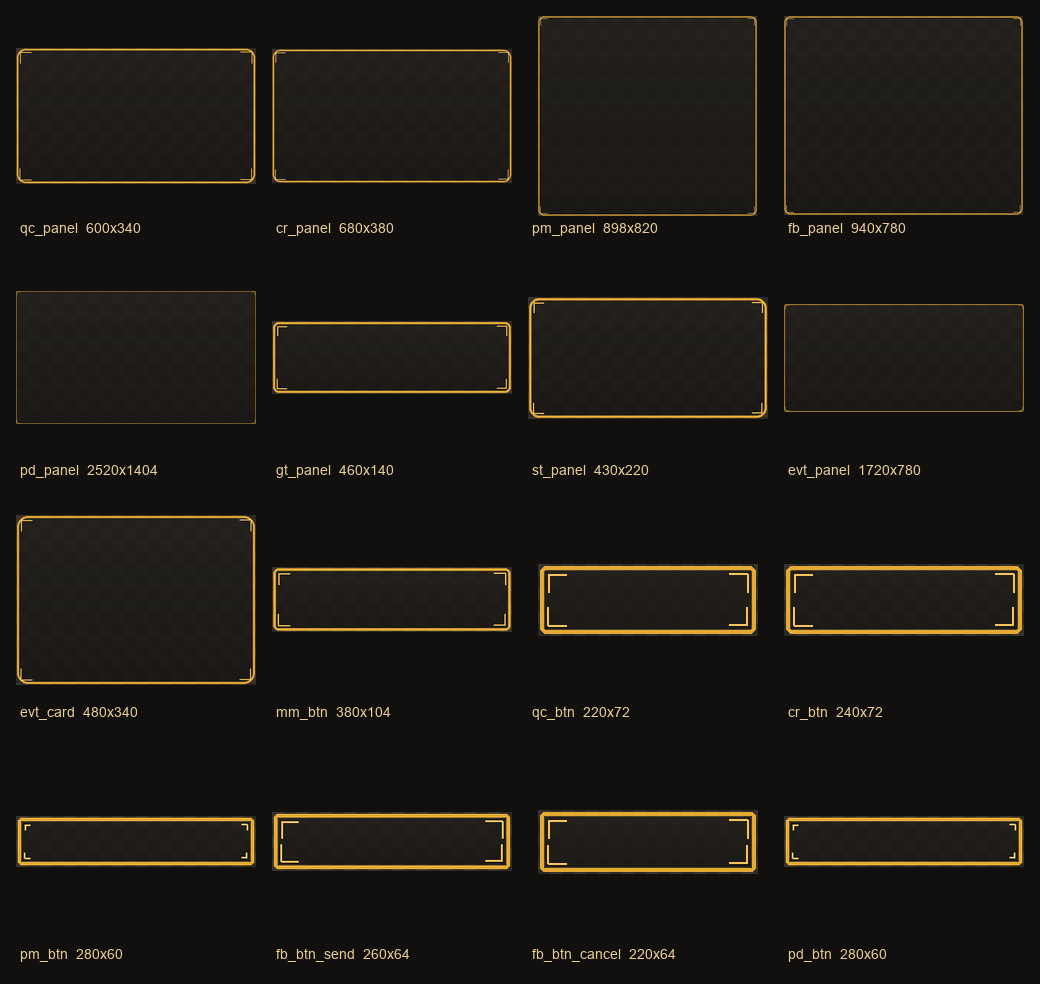
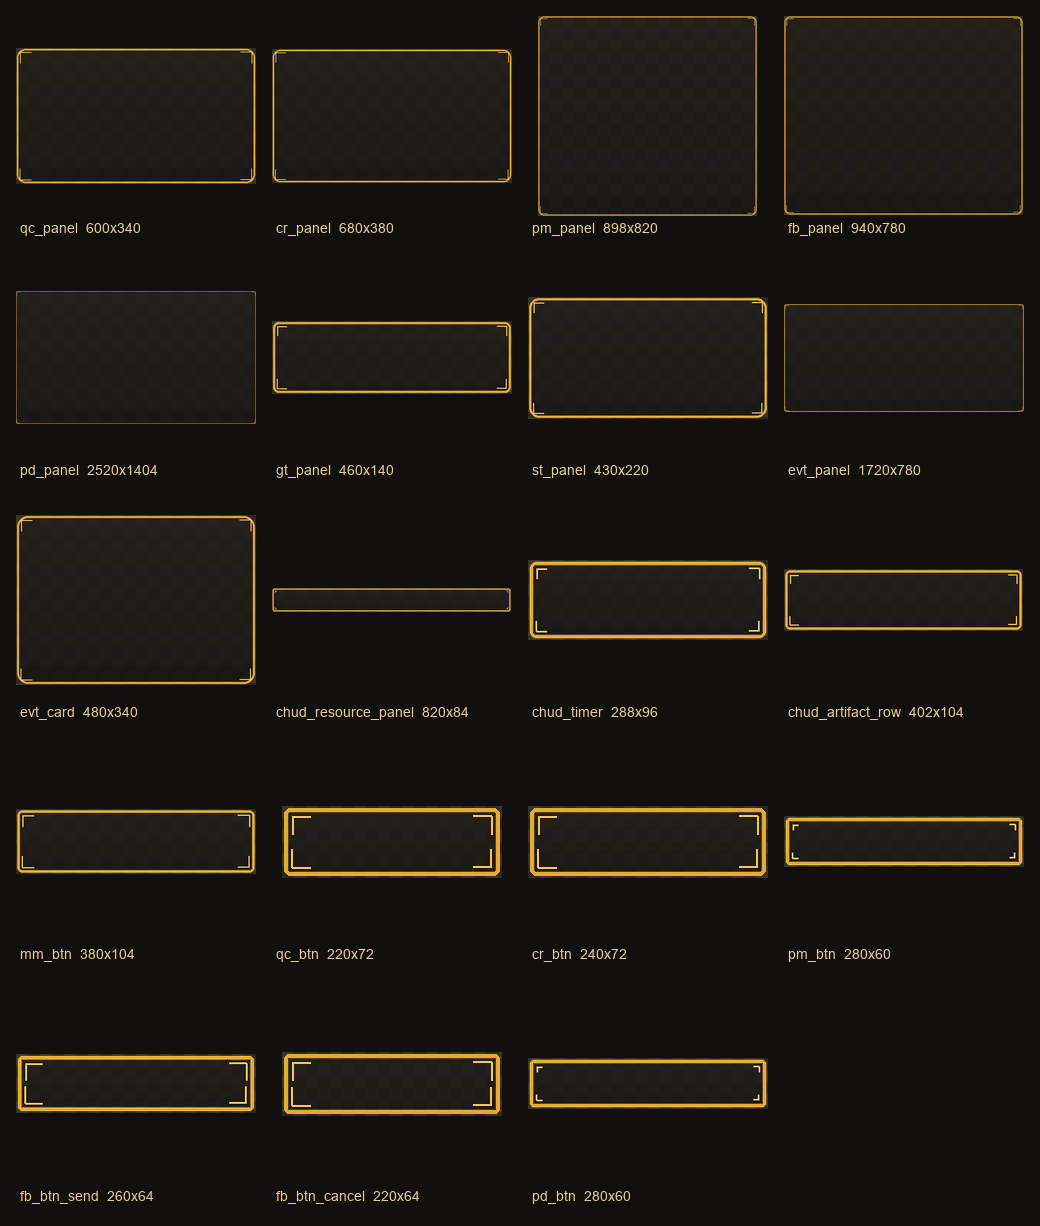
feat(SCRUM-564): UI-редизайн Бой/HUD @2K (раскладка+генерация)
Per-слот @2K-рамки боевого HUD (resource-панель/таймер/ряд артефактов) вместо
общих minimal_metal-фреймов, которые ужимались под слот и мылили орнамент.
Нарисованы 1:1 под слот (CHUD_*_2K) детерминированным build_ui_2k_frame_kit.py
с нативными 9-slice бордюрами — резкий орнамент на 1080p/2K/4K, тянется только
плоский центр. Узкие верт. бордюры тонких HUD-стрипов, чтобы рамка не вырастала
за слот и не наезжала на CharacterStatsHud/ArtifactHudRow.

- ui_theme_paths.gd: HUD-слоты в OVERHAUL_2K_* + margin-профили hud_resource/
  hud_timer/hud_artifact (единый источник для генератора и рантайма).
- ui_screens.gd: _hud_panel_style/_timer_panel_style -> _overhaul_2k_frame_style.
- build_ui_2k_frame_kit.py: 3 HUD-слота в SLOTS (anti-drift сверка с CHUD_*_2K).
- runtime_smoke_test.gd: HUD текстур-ассерты на @2K-пути (SCRUM-448->SCRUM-564).
- ассеты + .import сайдкары + mockup-спека + превью.

Green-gate PASS: runtime_smoke_test, ui_no_overlap_matrix_test (combat_hud без
overflow/overlap @1080p/2K/4K), frame-kit --verify зелёный. Эпик SCRUM-481.

diff --git a/tools/build_ui_2k_frame_kit.py b/tools/build_ui_2k_frame_kit.py
@@ -66,6 +66,11 @@ SLOTS = [
     # переиспользуют base card-арт под hover) — отдельный идентичный PNG не нужен.
     {"slug": "evt_panel", "file": "ui_screens", "const": "EVT_PANEL_2K", "kind": "frame", "margin_key": "panel", "w": 1720, "h": 780},
     {"slug": "evt_card", "file": "ui_screens", "const": "EVT_CARD_2K", "kind": "frame", "margin_key": "card", "w": 480, "h": 340},
+    # боевой HUD-блок (SCRUM-564, эпик SCRUM-481): per-слот @2K-рамки из CHUD_*_2K.
+    # Тонкие горизонтальные стрипы → margin-профили hud_resource/hud_timer/hud_artifact.
+    {"slug": "chud_resource_panel", "file": "ui_screens", "const": "CHUD_RESOURCE_PANEL_2K", "kind": "frame", "margin_key": "hud_resource", "w": 820, "h": 84},
+    {"slug": "chud_timer", "file": "ui_screens", "const": "CHUD_TIMER_2K", "kind": "frame", "margin_key": "hud_timer", "w": 288, "h": 96},
+    {"slug": "chud_artifact_row", "file": "ui_screens", "const": "CHUD_ARTIFACT_ROW_2K", "kind": "frame", "margin_key": "hud_artifact", "w": 402, "h": 104},
     # кнопки (button-маргины)
     {"slug": "mm_btn", "file": "ui_screens", "const": "MM_BTN_START_2K", "kind": "button", "margin_key": "main_menu", "w": 380, "h": 104},
     {"slug": "qc_btn", "file": "ui_screens", "const": "QC_BTN_EXIT_2K", "kind": "button", "margin_key": "standard", "w": 220, "h": 72},

diff --git a/docs/design/mockups/combat-hud/spec.md b/docs/design/mockups/combat-hud/spec.md
@@ -1,0 +1,65 @@
+# Mockup-спека — Бой / HUD (SCRUM-564, эпик SCRUM-481 UI Overhaul 2K)
+
+База **2560×1440**, `stretch=canvas_items`, `aspect=keep`. Редизайн боевого HUD:
+per-слот @2K-рамки вместо общих `minimal_metal`-фреймов, которые ужимались под слот
+и мылили орнамент. Стиль — единый D&D + Dark Fantasy Dragon (тот же bright-минимал
+amber-кит, что в остальных @2K-рамках блока Меню/Навигация SCRUM-486).
+
+## ЭТАП 1 — раскладка / метрики @2560×1440
+
+Координаты уже зафиксированы код-константами `CHUD_*_2K` в `scripts/ui_screens.gd`
+(блок SCRUM-487) и сверены рантайм-верификатором. Этот редизайн их НЕ меняет —
+только подменяет рамки на нарисованные 1:1 под слот.
+
+| Слот | const | x | y | w | h |
+|---|---|---:|---:|---:|---:|
+| Ресурс-панель (HP/XP/Gold/ULT) | `CHUD_RESOURCE_PANEL_2K` | 18 | 18 | 820 | 84 |
+| Панель таймера (нет на боссе) | `CHUD_TIMER_2K` | 1136 | 14 | 288 | 96 |
+| Бейдж возвышения (asc>0) | `CHUD_ASCENSION_BADGE_2K` | 1432 | 18 | 64 | 64 |
+| Ряд артефактов | `CHUD_ARTIFACT_ROW_2K` | 2140 | 16 | 402 | 104 |
+| Кнопка повышения (bottom-right) | `CHUD_LEVELUP_BUTTON_2K` | 2436 | 1316 | 96 | 117 |
+| Дамаг-флэш (overlay) | `CHUD_DAMAGE_FLASH_2K` | 0 | 0 | 2560 | 1440 |
+
+**Инварианты (проверены `ui_no_overlap_matrix_test`):** ничего не вылазит за экран;
+слоты не наслаиваются на 1080p/2K/4K; текст в рамке; HUD не перекрывает игровое поле
+(только верх-бар + нижний правый угол). Подписи компактные (HP/XP/ULT, таймер — моно).
+
+## ЭТАП 2 — генерация рамок (рисующий скилл)
+
+Рамки сгенерированы детерминированным пайплайном `tools/build_ui_2k_frame_kit.py`
+(SCRUM-485) — рисует 9-slice-safe frame-ассет РОВНО в пиксельный размер слота @2K
+с нативными бордюрами; орнамент держится в margin-band, центр — ровный вертикальный
+градиент (тянется только он). Рендер-верификатор (`--verify`) зелёный: размер ==
+ожидаемый, 9-slice валиден, углы попиксельно стабильны на 1080p/2K/4K, центр чистый,
+нет stray-островов.
+
+Тонкие HUD-стрипы получили **узкие вертикальные бордюры**, чтобы рамка не вырастала
+за свой слот и не наезжала на соседние плашки (`CharacterStatsHud` под ресурс-панелью,
+`ArtifactHudRow` справа от таймера):
+
+| slug | размер | tex-margins (l,t,r,b) | content (l,t,r,b) | margin-key |
+|---|---|---|---|---|
+| `chud_resource_panel` | 820×84 | 60,16,60,16 | 72,18,72,18 | `hud_resource` |
+| `chud_timer` | 288×96 | 56,22,56,22 | 64,26,64,24 | `hud_timer` |
+| `chud_artifact_row` | 402×104 | 60,24,60,24 | 70,28,70,28 | `hud_artifact` |
+
+Ассеты: `assets/sprites/ui/frames/overhaul_2k/ui_frame_2k_chud_*.png`.
+Контактный лист: `docs/design/previews/ui_2k_frame_kit_contact.png`.
+
+## Подключение в рантайм
+
+- `scripts/ui/ui_theme_paths.gd`: HUD-слоты добавлены в `OVERHAUL_2K_FRAME_PATHS` /
+  `_SOURCE_SIZE` / `_TEXTURE_MARGINS` / `_CONTENT`; новые margin-профили
+  `hud_resource`/`hud_timer`/`hud_artifact` в `MINIMAL_METAL_FRAME_TEXTURE_MARGINS`
+  (единый источник для генератора и рантайма, anti-drift сверяется в `--verify`).
+- `scripts/ui_screens.gd`: `_hud_panel_style()` и `_timer_panel_style()` переведены
+  на `_overhaul_2k_frame_style("chud_resource_panel"/"chud_timer", …)`.
+- `chud_artifact_row` сгенерирован и зарегистрирован (ArtifactHudRow — прозрачный
+  HFlowContainer; оборачивание в панель оставлено отдельной задачей, чтобы не менять
+  раскладку ряда в этом редизайне).
+
+## Тесты (green-gate)
+
+- `tests/runtime_smoke_test.gd` — PASS (текстур-ассерты HUD обновлены на @2K-пути,
+  пометка supersession SCRUM-448→SCRUM-564 в двух местах).
+- `tests/ui_no_overlap_matrix_test.gd` — PASS (combat_hud без overflow/overlap @1080p/2K/4K).
